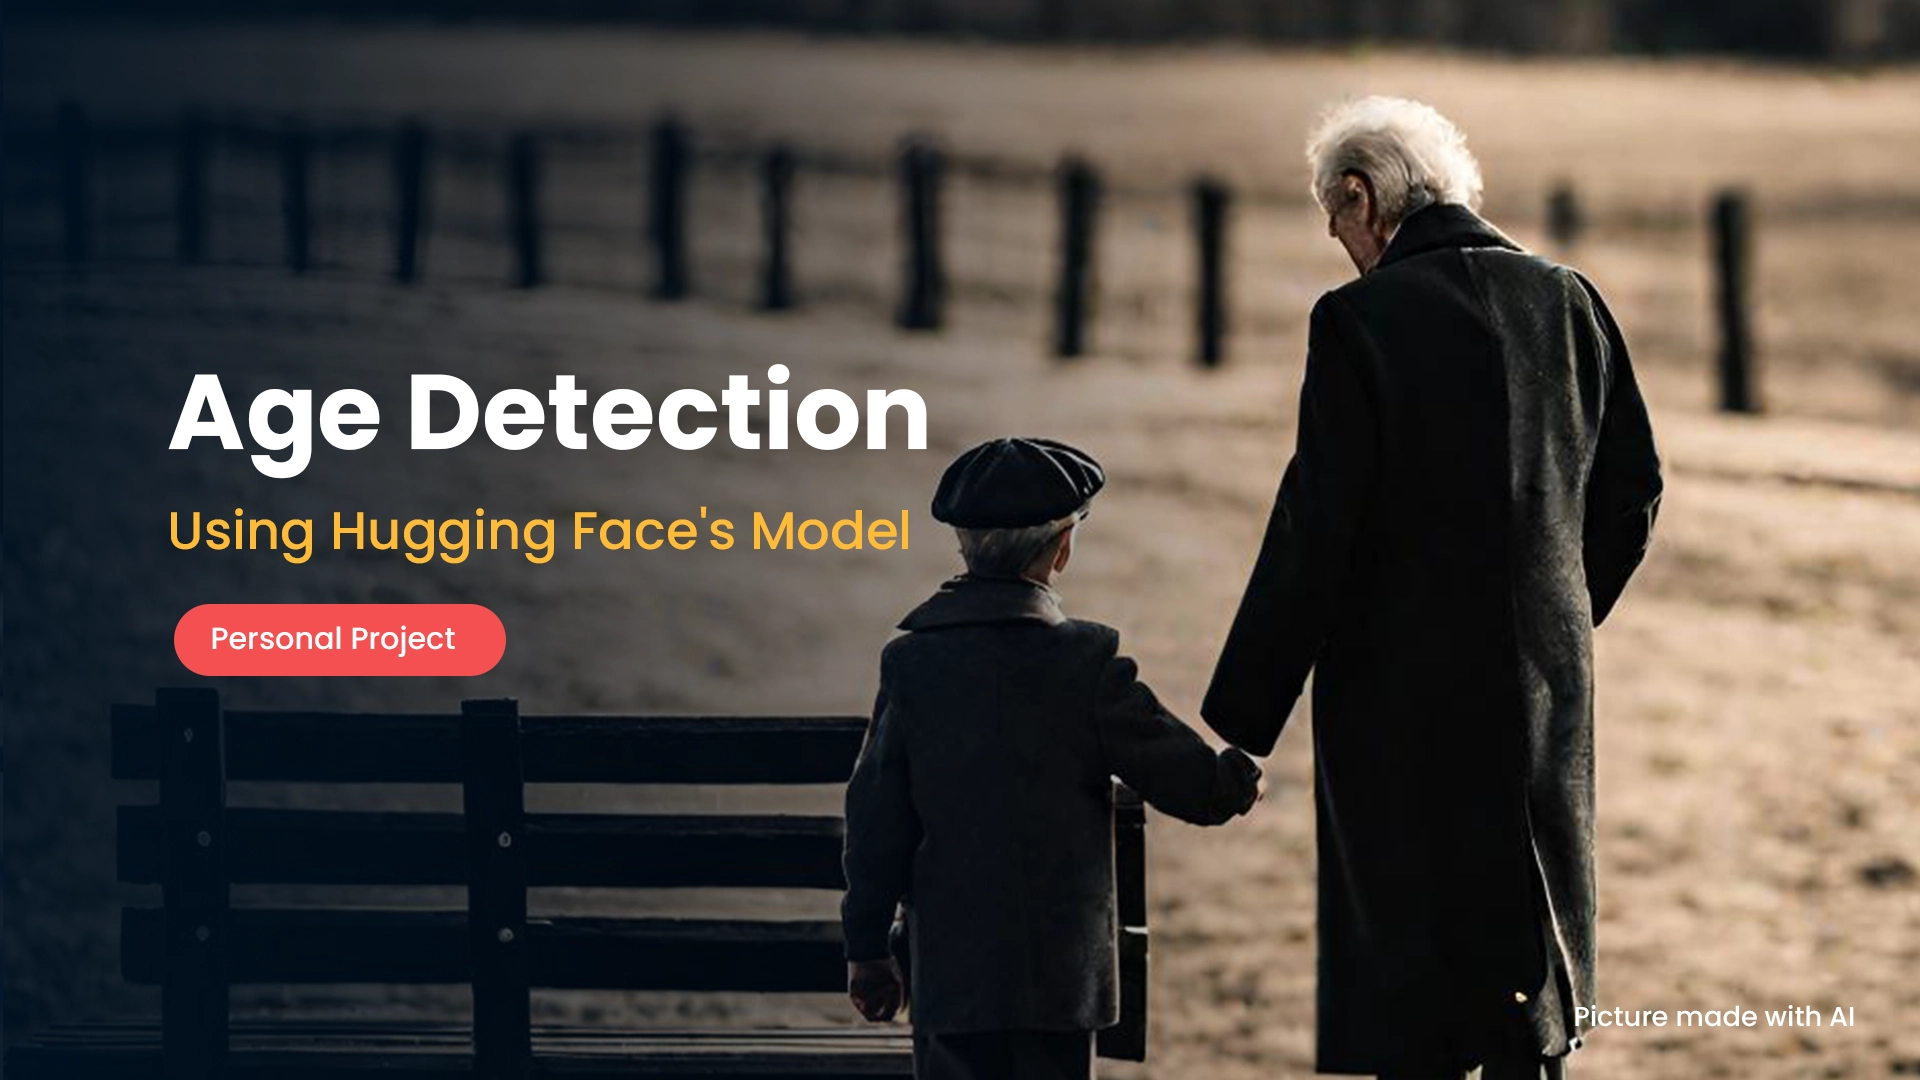
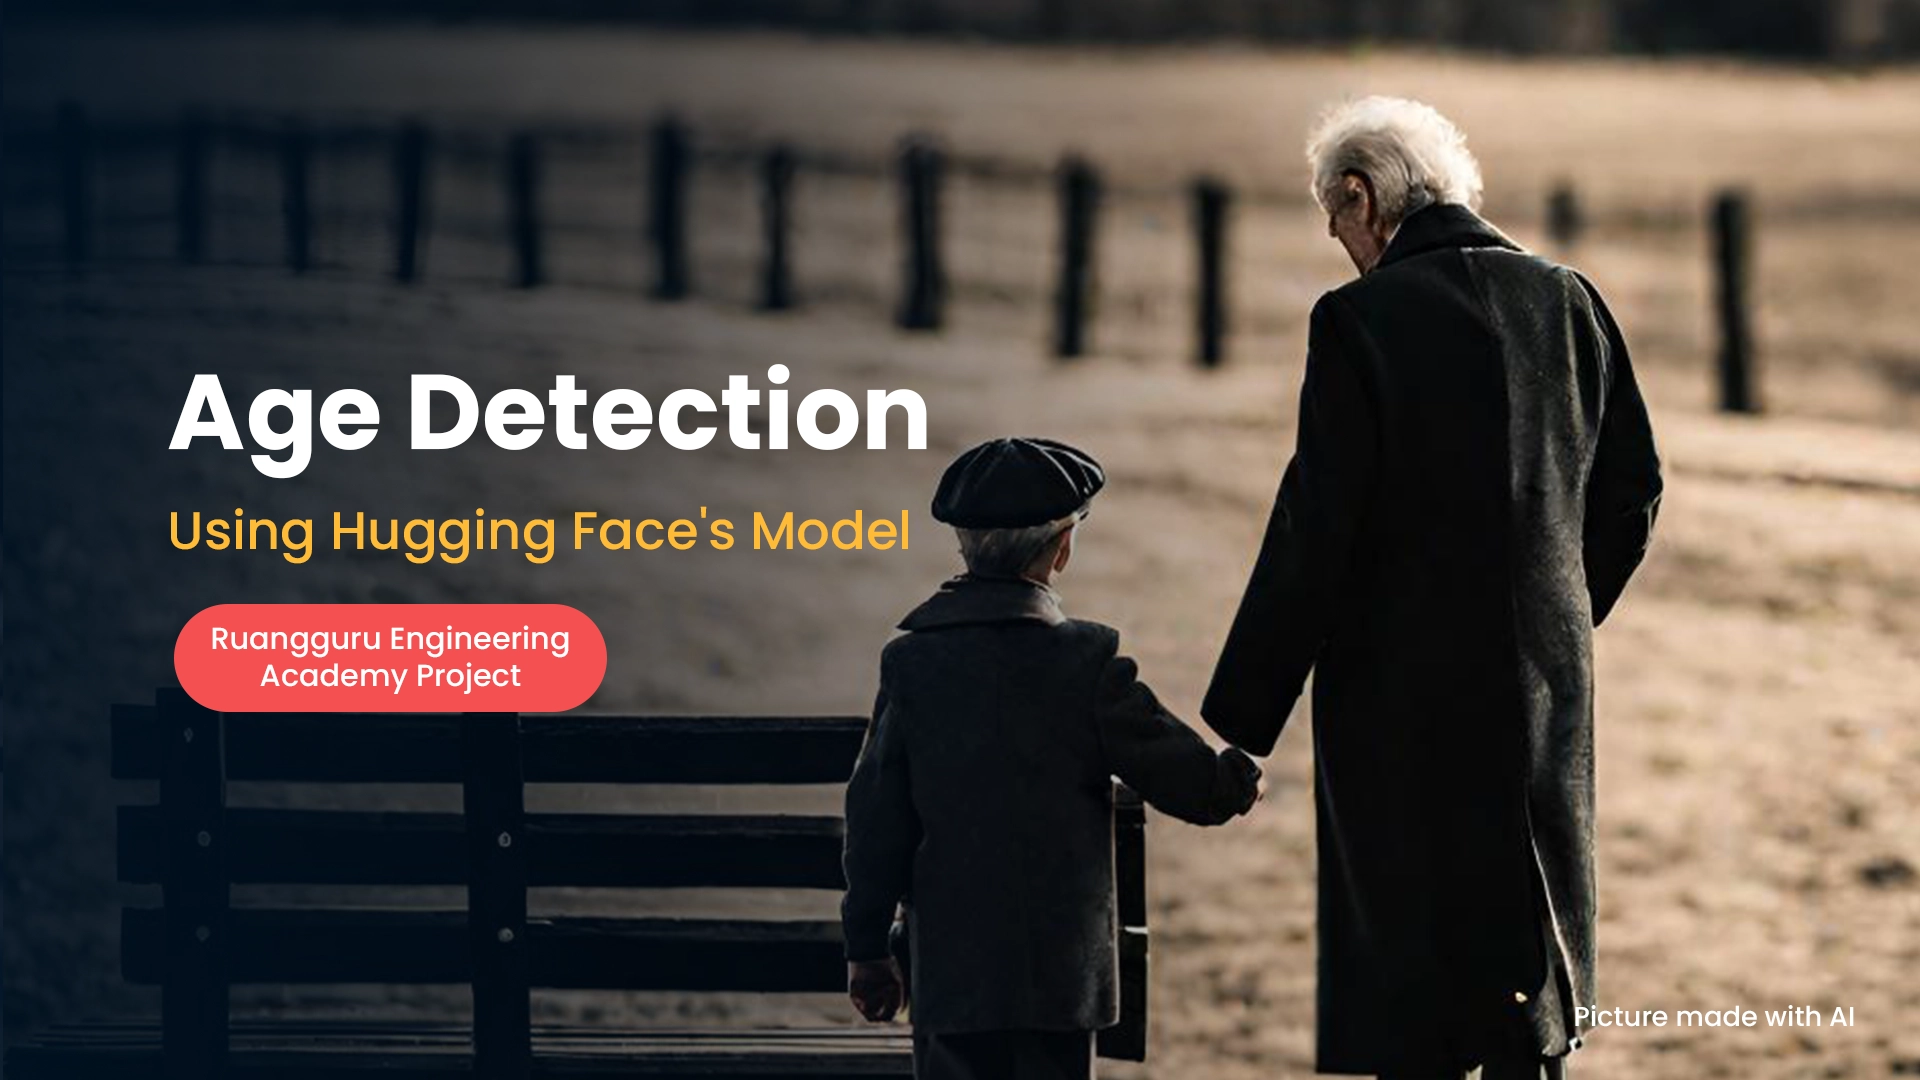
new project

Changed region(s): [[0.0938, 0.55, 0.3125, 0.6722], [0.0938, 0.55, 0.125, 0.5806]]

diff --git a/index.html b/index.html
@@ -86,7 +86,7 @@
                     <img src="images/project-3.webp" alt="Project 3">
                     <div class="card-content">
                         <h3>Age Detection</h3>
-                        <p>Personal Project</p>
+                        <p>Ruangguru Engineering Academy Project</p>
                     </div>
                 </div>
             </div>
